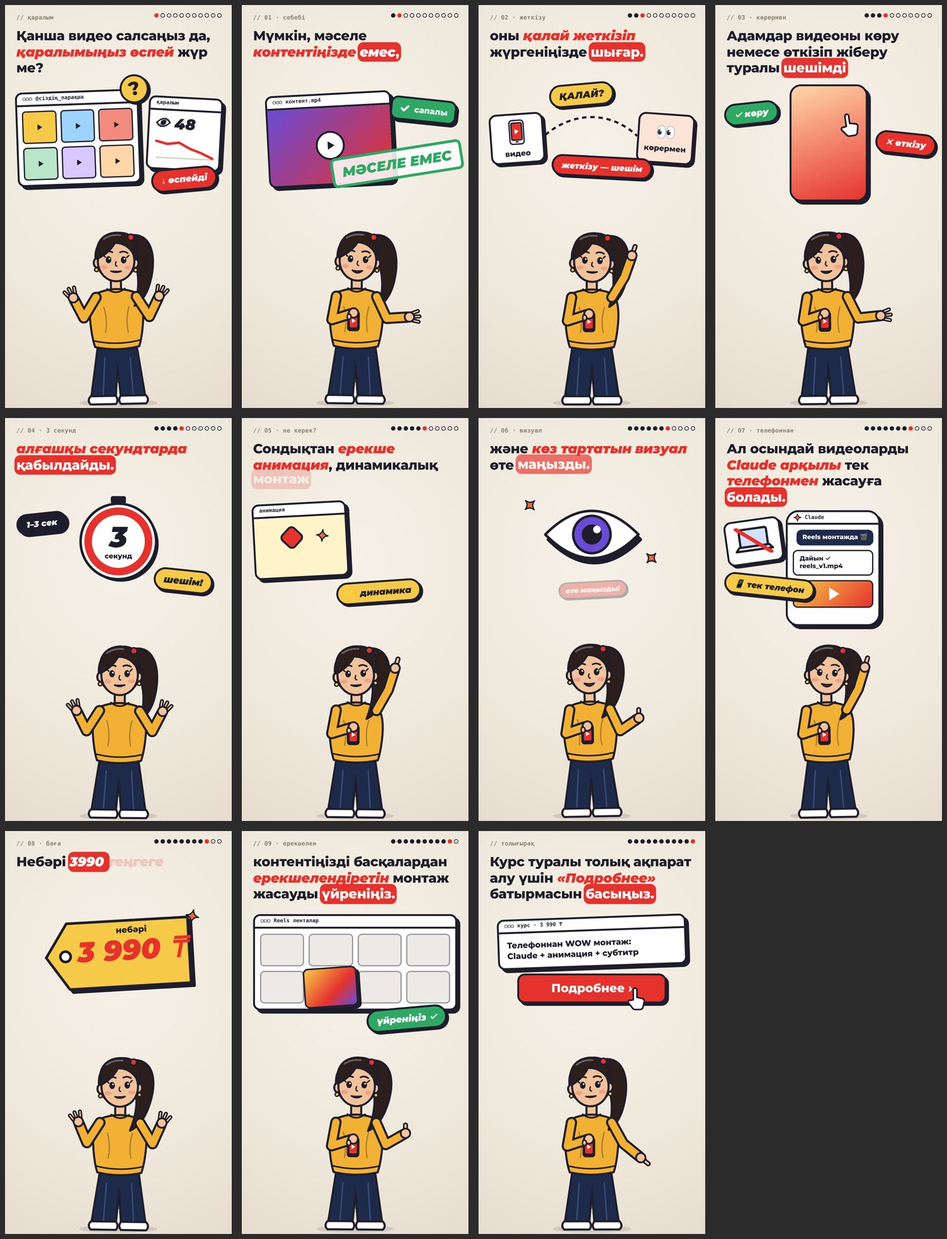
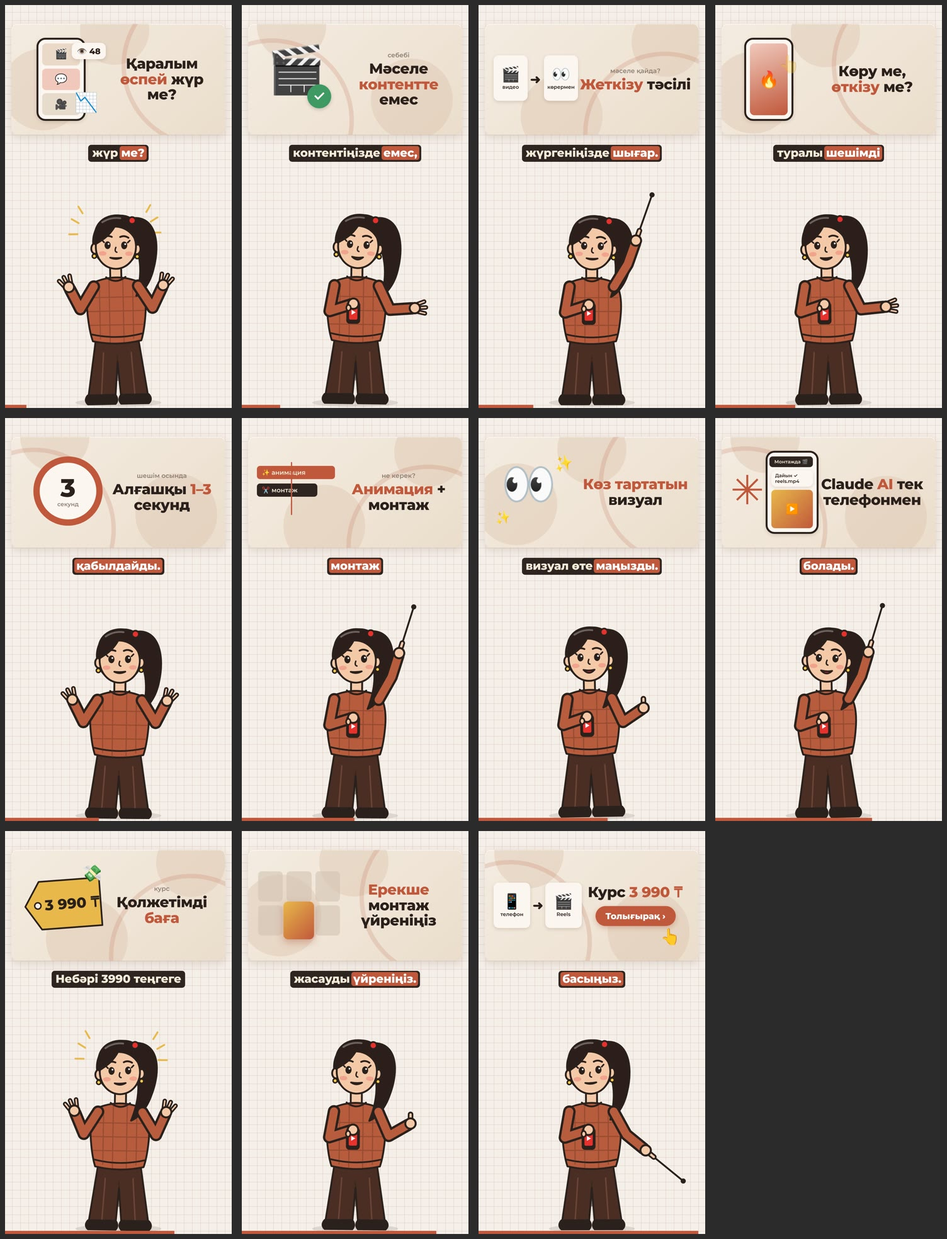
Қаралым: референс дизайны (панель, қара плашкалы субтитр, прогресс сызығы)
Claude-Session: https://claude.ai/code/session_017A9pfuai7idtZ89oicBLPH

Changed region(s): [[0.0, 0.0, 1.0, 1.0], [0.9375, 0.6199, 1.0, 0.6819]]

diff --git a/.claude/skills/matin-video/mult/ref.html b/.claude/skills/matin-video/mult/ref.html
@@ -1,0 +1,261 @@
+<!doctype html><html><head><meta charset="utf-8">
+<style>
+@font-face{font-family:MS;font-weight:800;font-style:normal;unicode-range:U+0000-024F,U+2000-206F,U+203A;src:url(fonts/montserrat-latin-800-normal.woff2)}
+@font-face{font-family:MS;font-weight:800;font-style:normal;unicode-range:U+0400-045F,U+0490-0491,U+04B0-04B1,U+2116;src:url(fonts/montserrat-cyrillic-800-normal.woff2)}
+@font-face{font-family:MS;font-weight:800;font-style:normal;unicode-range:U+0460-052F,U+1C80-1C88,U+20B4,U+2DE0-2DFF,U+A640-A69F,U+FE2E-FE2F;src:url(fonts/montserrat-cyrillic-ext-800-normal.woff2)}
+@font-face{font-family:MS;font-weight:900;font-style:italic;unicode-range:U+0000-024F,U+2000-206F;src:url(fonts/montserrat-latin-900-italic.woff2)}
+@font-face{font-family:MS;font-weight:900;font-style:italic;unicode-range:U+0400-045F,U+0490-0491,U+04B0-04B1;src:url(fonts/montserrat-cyrillic-900-italic.woff2)}
+@font-face{font-family:MS;font-weight:900;font-style:italic;unicode-range:U+0460-052F;src:url(fonts/montserrat-cyrillic-ext-900-italic.woff2)}
+@font-face{font-family:MS;font-weight:600;font-style:normal;unicode-range:U+0000-024F,U+2000-206F;src:url(fonts/montserrat-latin-600-normal.woff2)}
+@font-face{font-family:MS;font-weight:600;font-style:normal;unicode-range:U+0400-045F,U+0490-0491,U+04B0-04B1;src:url(fonts/montserrat-cyrillic-600-normal.woff2)}
+@font-face{font-family:MS;font-weight:600;font-style:normal;unicode-range:U+0460-052F;src:url(fonts/montserrat-cyrillic-ext-600-normal.woff2)}
+
+:root{--ink:#2B211C;--acc:#C0583B;--bg:#F5EFE9;--chip:#2E2420;--cream:#F6EBDD}
+*{box-sizing:border-box}
+html,body{margin:0;width:360px;height:640px;overflow:hidden;background:var(--bg)}
+#stage{position:absolute;inset:0;overflow:hidden;font-family:MS,'Noto Color Emoji',sans-serif;color:var(--ink);background:var(--bg)}
+#grid{position:absolute;inset:0;background-image:linear-gradient(rgba(190,150,128,.22) 1px,transparent 1px),linear-gradient(90deg,rgba(190,150,128,.22) 1px,transparent 1px);background-size:13px 13px;background-position:-2px -2px}
+#panel{position:absolute;left:10px;top:30px;width:340px;height:176px;border-radius:10px;overflow:hidden;
+ background:linear-gradient(140deg,#F4ECE1 0%,#EFE4D5 60%,#EADDCB 100%);box-shadow:0 4px 14px rgba(90,60,40,.16),0 1px 0 rgba(255,255,255,.7) inset}
+.blob{position:absolute;border-radius:50%;background:rgba(222,198,176,.45)}
+.arc{position:absolute;border-radius:50%;border:7px solid rgba(196,120,90,.22)}
+.scene{position:absolute;inset:0}
+.el{position:absolute;transform-origin:50% 50%}
+.ttl{position:absolute;left:150px;right:12px;top:0;bottom:0;display:flex;flex-direction:column;justify-content:center;align-items:center;text-align:center}
+.step{font:600 10px MS;color:#8b7d72;margin-bottom:3px}
+.tt{max-width:100%;font:800 23px/1.08 MS;letter-spacing:-.4px;color:var(--ink)}
+.tt b{color:var(--acc);font-weight:800}
+.tt span{display:inline-block}
+.card{background:#FBF6EF;border-radius:8px;box-shadow:0 2px 6px rgba(90,60,40,.18)}
+.chip{background:var(--chip);color:#F4EAD8;border-radius:5px;font:600 10px MS;padding:4px 8px;white-space:nowrap}
+.pill{border-radius:999px;font:800 14px MS;padding:7px 16px;white-space:nowrap;background:var(--acc);color:#fff;box-shadow:0 3px 8px rgba(160,70,40,.3)}
+.emo{font-family:'Noto Color Emoji';line-height:1}
+#sub{position:absolute;left:12px;right:12px;top:222px;display:flex;flex-direction:column;align-items:center;gap:4px}
+.ln{background:var(--chip);border-radius:5px;padding:2px 6px;font:800 18px/1.25 MS;color:#F4EAD8;white-space:nowrap;letter-spacing:-.1px}
+.ln span{border-radius:4px;padding:0 3px;margin:0 -3px}
+.ln span.act{background:var(--acc);color:#fff}
+#prog{position:absolute;left:0;bottom:0;height:5px;background:var(--acc)}
+#cw{position:absolute;inset:0;transform-origin:180px 636px;transform:scale(1.1)}
+</style></head><body><div id="stage"><div id="grid"></div>
+<div id="panel"><div class="blob" id="b1" style="width:130px;height:130px;left:-20px;top:40px"></div><div class="blob" id="b2" style="width:110px;height:110px;left:110px;top:-40px"></div><div class="arc" id="a1" style="width:260px;height:260px;left:180px;top:-60px"></div><div id="scenes"></div></div>
+<div id="sub"></div>
+<div id="cw"><svg id="person" viewBox="0 0 360 640" width="360" height="640" stroke="#2B211C" stroke-width="2.6" stroke-linejoin="round" stroke-linecap="round" style="position:absolute;left:0;top:0">
+ <ellipse cx="180" cy="632" rx="62" ry="6" fill="#2B211C" opacity=".12" stroke="none"/>
+ <g id="pall">
+ <g id="pfx" style="display:none" fill="none" stroke="#E8B84A" stroke-width="2.6"><path d="M128 372 L118 366 M126 388 L114 388 M134 358 L128 348"/><path d="M232 372 L242 366 M234 388 L246 388 M226 358 L232 348"/></g>
+ <path d="M150 536 L210 536 L223 623 L184 623 L180 574 L176 623 L137 623Z" fill="#4A2E24"/><path d="M160 560 L156 620 M200 560 L204 620" fill="none" stroke="#6b4536" stroke-width="2"/>
+ <path d="M180 566 L180 600" fill="none" stroke-width="2" opacity=".5"/>
+ <path d="M136 621 H176 Q181 628 176 634 H136 Q130 628 136 621Z" fill="#2B211C"/>
+ <path d="M184 621 H224 Q230 628 224 634 H184 Q179 628 184 621Z" fill="#2B211C"/>
+ <path d="M172 432 V452 Q180 458 188 452 V432Z" fill="#F3C9A8"/>
+ <path d="M146 459 Q180 444 214 459 Q224 472 222 502 Q220 528 215 543 Q180 551 145 543 Q140 528 138 502 Q136 472 146 459Z" fill="#B85C3E"/>
+ <path d="M143 533 Q180 542 217 533" fill="none" stroke-width="2.4"/>
+ <path d="M166 451 Q180 462 194 451" fill="none" stroke-width="2.6"/>
+ <g opacity=".35" stroke="#5a2a1a" stroke-width="1.6" fill="none"><path d="M156 462 V540 M170 452 V546 M190 452 V546 M204 462 V540 M142 480 H218 M140 500 H220 M141 520 H219"/></g>
+ <g id="phead">
+  <g id="ptail"><path d="M200 366 C236 360 244 400 232 440 C226 462 214 474 206 478 C216 446 216 414 198 390Z" fill="#2B1E1B"/></g>
+  <ellipse cx="180" cy="400" rx="33" ry="37" fill="#2B1E1B"/>
+  <ellipse cx="150" cy="410" rx="5.5" ry="7.5" fill="#F3C9A8"/><ellipse cx="210" cy="410" rx="5.5" ry="7.5" fill="#F3C9A8"/>
+  <circle cx="149" cy="421" r="3" fill="#F7C948" stroke-width="2"/><circle cx="211" cy="421" r="3" fill="#F7C948" stroke-width="2"/>
+  <ellipse cx="180" cy="407" rx="29" ry="32" fill="#F3C9A8"/>
+  <path d="M150 404 C144 370 168 360 186 362 C206 362 218 378 211 404 C206 388 194 378 178 378 C170 392 160 398 150 404Z" fill="#2B1E1B"/>
+  <path d="M160 372 Q172 364 186 366" fill="none" stroke="#fff" stroke-width="2.6" opacity=".3"/>
+  <circle cx="203" cy="369" r="5" fill="#E5322D" stroke-width="2.4"/>
+  <path d="M162 394 Q168 390 174 393 M186 393 Q192 390 198 394" fill="none" stroke-width="2.6"/>
+  <g id="peyes"><g class="ppup"><ellipse cx="168" cy="405" rx="4.4" ry="5.6" fill="#2B211C" stroke="none"/><circle cx="169.4" cy="403.2" r="1.3" fill="#fff" stroke="none"/>
+   <ellipse cx="192" cy="405" rx="4.4" ry="5.6" fill="#2B211C" stroke="none"/><circle cx="193.4" cy="403.2" r="1.3" fill="#fff" stroke="none"/></g></g>
+  <path d="M163 401 L160 398 M197 401 L200 398" fill="none" stroke-width="2.2"/>
+  <path id="plids" d="M164 406 Q168 409 172 406 M188 406 Q192 409 196 406" fill="none" stroke-width="2.4" style="display:none"/>
+  <ellipse cx="161" cy="417" rx="5.5" ry="3.2" fill="#F28B7D" stroke="none" opacity=".6"/><ellipse cx="199" cy="417" rx="5.5" ry="3.2" fill="#F28B7D" stroke="none" opacity=".6"/>
+  <path d="M180 408 Q177.5 414 181.5 415" fill="none" stroke-width="2"/>
+  <path id="pmouth" d="M172 423 Q180 428 188 423Z" fill="#C42A3B" stroke-width="2.4"/>
+ </g>
+ <g id="pL"><path class="aO" d="" fill="none" stroke-width="18"/><path class="aF" d="" fill="none" stroke="#B85C3E" stroke-width="11.5"/>
+  <g class="hand">
+   <g class="hPhone"><rect x="-9" y="-2" width="18" height="30" rx="4" fill="#2B211C" stroke-width="2"/><rect x="-6" y="2" width="12" height="21" rx="2" fill="#E5322D" stroke="none"/><path d="M-2.5 9 L3.5 12.5 L-2.5 16Z" fill="#fff" stroke="none"/></g>
+   <g class="hOpen"><path d="M-5.5 4 L-8.5 14 M0 5 L0 16 M5.5 4 L8.5 14" fill="none" stroke-width="6.5"/><path d="M-5.5 4 L-8.5 14 M0 5 L0 16 M5.5 4 L8.5 14" fill="none" stroke-width="2" stroke="#F3C9A8"/></g>
+   <g class="hPoint"><path class="stick" d="M0 2 L0 70" stroke="#2B211C" stroke-width="2.6"/><circle cx="0" cy="70" r="2.4" fill="#2B211C"/><rect x="-2.8" y="2" width="5.6" height="16" rx="2.8" fill="#F3C9A8" stroke-width="2.4"/></g>
+   <g class="hThumb"><rect x="-2.8" y="-16" width="5.6" height="14" rx="2.8" fill="#F3C9A8" stroke-width="2.4"/></g>
+   <circle class="palm" cx="0" cy="0" r="7.5" fill="#F3C9A8" stroke-width="2.8"/>
+   <g class="hPhoneF"><ellipse cx="-7" cy="6" rx="3.2" ry="4.2" fill="#F3C9A8" stroke-width="2.2"/></g>
+  </g></g>
+ <g id="pR"><path class="aO" d="" fill="none" stroke-width="18"/><path class="aF" d="" fill="none" stroke="#B85C3E" stroke-width="11.5"/>
+  <g class="hand">
+   <g class="hPhone"><rect x="-9" y="-2" width="18" height="30" rx="4" fill="#2B211C" stroke-width="2"/><rect x="-6" y="2" width="12" height="21" rx="2" fill="#E5322D" stroke="none"/><path d="M-2.5 9 L3.5 12.5 L-2.5 16Z" fill="#fff" stroke="none"/></g>
+   <g class="hOpen"><path d="M-5.5 4 L-8.5 14 M0 5 L0 16 M5.5 4 L8.5 14" fill="none" stroke-width="6.5"/><path d="M-5.5 4 L-8.5 14 M0 5 L0 16 M5.5 4 L8.5 14" fill="none" stroke-width="2" stroke="#F3C9A8"/></g>
+   <g class="hPoint"><path class="stick" d="M0 2 L0 70" stroke="#2B211C" stroke-width="2.6"/><circle cx="0" cy="70" r="2.4" fill="#2B211C"/><rect x="-2.8" y="2" width="5.6" height="16" rx="2.8" fill="#F3C9A8" stroke-width="2.4"/></g>
+   <g class="hThumb"><rect x="-2.8" y="-16" width="5.6" height="14" rx="2.8" fill="#F3C9A8" stroke-width="2.4"/></g>
+   <circle class="palm" cx="0" cy="0" r="7.5" fill="#F3C9A8" stroke-width="2.8"/>
+   <g class="hPhoneF"><ellipse cx="-7" cy="6" rx="3.2" ry="4.2" fill="#F3C9A8" stroke-width="2.2"/></g>
+  </g></g>
+ </g>
+</svg></div>
+<div id="prog"></div>
+</div>
+<script>
+const $=(s,r=document)=>r.querySelector(s);
+const clamp=(x,a=0,b=1)=>Math.max(a,Math.min(b,x));
+const eob=x=>{const c1=1.7,c3=c1+1;return 1+c3*Math.pow(x-1,3)+c1*Math.pow(x-1,2)};
+const eo=x=>1-Math.pow(1-x,3);
+let D=null;
+const T=(h)=>`<div class="ttl">${h}</div>`;
+const tt=(s,step)=>{let em=false;const ws=s.split(' ').map(w=>{let st=w.startsWith('*');if(st){em=true;w=w.slice(1)}let en=w.includes('*');w=w.replace('*','');const r=`<span class="tw">${em?`<b>${w}</b>`:w}</span>`;if(en)em=false;return r});
+ return (step?`<div class="step">${step}</div>`:'')+`<div class="tt">${ws.join(' ')}</div>`;};
+const PH=(inner,w=78,h=132,x=40,y=22)=>`<div class="el card" id="ph" style="left:${x}px;top:${y}px;width:${w}px;height:${h}px;border-radius:14px;border:3px solid #2B211C;padding:6px;display:flex;flex-direction:column;gap:5px;overflow:hidden">${inner}</div>`;
+function card(kind){
+ switch(kind){
+ case 'views': return [PH(`<div class="el" id="v1" style="position:relative;flex:1;border-radius:6px;background:#EBD9C8;display:flex;align-items:center;justify-content:center"><span class="emo" style="font-size:16px">🎬</span></div>
+   <div class="el" id="v2" style="position:relative;flex:1;border-radius:6px;background:#F0C9BC;display:flex;align-items:center;justify-content:center"><span class="emo" style="font-size:16px">💬</span></div>
+   <div class="el" id="v3" style="position:relative;flex:1;border-radius:6px;background:#E7DCCB;display:flex;align-items:center;justify-content:center"><span class="emo" style="font-size:16px">🎥</span></div>`)+
+  `<div class="el card" id="vc" style="left:96px;top:30px;padding:5px 8px;font:800 13px MS;white-space:nowrap"><span class="emo">👁</span> <span id="vn">312</span></div>
+   <div class="el emo" id="vd" style="left:100px;top:110px;font-size:30px">📉</div>`+T(tt('Қаралым *өспей* жүр ме?')),
+  [['#ph',0.0],['#v1',0.35],['#v2',0.6],['#v3',0.85],['#vc','қаралым'],['#vd','өспей']]];
+ case 'content': return [`<div class="el emo" id="c1" style="left:30px;top:36px;font-size:74px">🎬</div>
+   <div class="el" id="c2" style="left:94px;top:96px;width:38px;height:38px;border-radius:50%;background:#3E9A62;color:#fff;font:900 22px/38px MS;text-align:center;box-shadow:0 2px 6px rgba(0,0,0,.2)">✓</div>`+T(tt('Мәселе *контентте* емес','себебі')),
+  [['#c1',0.0],['#c2','контент']]];
+ case 'deliver': return [`<div class="el card" id="d1" style="left:14px;top:50px;width:54px;height:72px;display:flex;flex-direction:column;align-items:center;justify-content:center;gap:3px;font:600 8px MS"><span class="emo" style="font-size:24px">🎬</span>видео</div>
+   <div class="el" id="d2" style="left:72px;top:76px;font:800 20px MS">➜</div>
+   <div class="el card" id="d3" style="left:94px;top:50px;width:54px;height:72px;display:flex;flex-direction:column;align-items:center;justify-content:center;gap:3px;font:600 8px MS"><span class="emo" style="font-size:24px">👀</span>көрермен</div>`+T(tt('*Жеткізу* тәсілі','мәселе қайда?')),
+  [['#d1',0.0],['#d2','қалай'],['#d3','жеткізіп']]];
+ case 'swipe': return [PH(`<div id="feed" style="position:absolute;left:6px;right:6px;top:6px">
+    <div style="height:114px;border-radius:7px;background:linear-gradient(160deg,#EBD9C8,#C98E74);display:flex;align-items:center;justify-content:center"><span class="emo" style="font-size:26px">😴</span></div>
+    <div style="height:6px"></div>
+    <div style="height:114px;border-radius:7px;background:linear-gradient(160deg,#F0C9BC,#C0583B);display:flex;align-items:center;justify-content:center"><span class="emo" style="font-size:26px">🔥</span></div></div>`,78,132,36,22)+
+   `<div class="el emo" id="sw" style="left:90px;top:110px;font-size:28px">👆</div>`+T(tt('Көру ме, *өткізу* ме?')),
+  [['#ph',0.0],['#sw','өткізіп','swipe']]];
+ case 'timer': return [`<div class="el" id="tm" style="left:30px;top:26px;width:120px;height:120px">
+   <svg width="120" height="120" viewBox="0 0 120 120" style="position:absolute;inset:0"><circle cx="60" cy="60" r="50" fill="#FBF6EF" stroke="#E5D6C5" stroke-width="10"/>
+   <circle id="tr" cx="60" cy="60" r="50" fill="none" stroke="#C0583B" stroke-width="10" stroke-linecap="round" stroke-dasharray="314" stroke-dashoffset="314" transform="rotate(-90 60 60)"/></svg>
+   <div style="position:absolute;inset:0;display:flex;flex-direction:column;align-items:center;justify-content:center"><div id="tn" style="font:800 40px/1 MS">0</div><div style="font:600 9px MS;color:#8b7d72">секунд</div></div></div>`+T(tt('Алғашқы *1–3* секунд','шешім осында')),
+  [['#tm',0.0]]];
+ case 'anim': return [`<div class="el" id="tl" style="left:14px;top:46px;width:140px;height:90px">
+   <div class="chip" id="r1" style="position:absolute;left:0;top:0;width:124px;background:#C0583B">✨ анимация</div>
+   <div class="chip" id="r2" style="position:absolute;left:0;top:28px;width:96px">✂ монтаж</div>
+   <div class="chip" id="r3" style="position:absolute;left:0;top:56px;width:104px;background:#7A5A48">⚡ динамика</div>
+   <div id="ph2" style="position:absolute;top:-6px;height:84px;width:2px;background:#C0583B;left:20px"></div></div>`+T(tt('*Анимация* + монтаж','не керек?')),
+  [['#tl',0.0],['#r1','анимация','row'],['#r2','динамикалық','row'],['#r3','монтаж','row']]];
+ case 'visual': return [`<div class="el emo" id="e1" style="left:26px;top:40px;font-size:70px">👀</div>
+   <div class="el emo" id="e2" style="left:110px;top:30px;font-size:24px">✨</div><div class="el emo" id="e3" style="left:16px;top:118px;font-size:20px">✨</div>`+T(tt('*Көз тартатын* визуал')),
+  [['#e1','көз'],['#e2','тартатын'],['#e3','визуал']]];
+ case 'claude': return [`<div class="el" id="ast" style="left:14px;top:52px;font:300 64px/1 MS;color:#C0583B">✳</div>`+
+   PH(`<div class="el chip" id="m1" style="position:relative;align-self:flex-end;font-size:7.5px">Монтажда 🎬</div>
+   <div class="el card" id="m2" style="position:relative;padding:4px 6px;font:600 7.5px MS">Дайын ✓<br>reels.mp4</div>
+   <div class="el" id="m3" style="position:relative;flex:1;border-radius:6px;background:linear-gradient(135deg,#E8B84A,#C0583B);display:flex;align-items:center;justify-content:center;color:#fff;font-size:16px">▶</div>`,84,132,70,22)+T(tt('Claude *AI* тек телефонмен')),
+  [['#ast',0.0],['#ph',0.15],['#m1','claude'],['#m2','телефонмен'],['#m3','жасауға']]];
+ case 'price': return [`<div class="el" id="pt" style="left:18px;top:44px;width:128px;height:84px">
+   <svg width="128" height="84" viewBox="0 0 128 84" style="position:absolute;inset:0;overflow:visible"><path d="M28 4 H124 V80 H28 L4 42Z" fill="#E8B84A" stroke="#2B211C" stroke-width="2.6" stroke-linejoin="round"/><circle cx="24" cy="42" r="5" fill="#F5EFE9" stroke="#2B211C" stroke-width="2.2"/></svg>
+   <div style="position:absolute;left:34px;right:4px;top:0;bottom:0;display:flex;align-items:center;justify-content:center;font:800 23px MS;color:#2B211C">3 990 ₸</div></div>
+   <div class="el emo" id="p2" style="left:112px;top:24px;font-size:26px">💸</div>`+T(tt('Қолжетімді *баға*','курс')),
+  [['#pt','небәрі','price'],['#p2','3990']]];
+ case 'standout': return [`<div class="el" id="gr" style="left:16px;top:34px;width:130px;display:grid;grid-template-columns:repeat(3,1fr);gap:6px">
+   ${[0,1,2,3,4,5].map(i=>`<div id="g${i}" style="height:48px;border-radius:6px;background:#D2C3B3"></div>`).join('')}</div>`+T(tt('*Ерекше* монтаж үйреніңіз')),
+  [['#gr',0.0]]];
+ case 'kurs': return [`<div class="el card" id="k1" style="left:14px;top:52px;width:58px;height:72px;display:flex;flex-direction:column;align-items:center;justify-content:center;gap:3px;font:600 8px MS"><span class="emo" style="font-size:24px">📱</span>телефон</div>
+   <div class="el" id="k2" style="left:76px;top:76px;font:800 20px MS">➜</div>
+   <div class="el card" id="k3" style="left:96px;top:52px;width:58px;height:72px;display:flex;flex-direction:column;align-items:center;justify-content:center;gap:3px;font:600 8px MS"><span class="emo" style="font-size:24px">🎬</span>Reels</div>`+
+   T(`<div class="tt"><span class="tw">Курс</span> <span class="tw"><b>3 990 ₸</b></span></div><div class="el pill" id="btn" style="position:relative;margin-top:10px">${D.button||'Толығырақ'} ›</div>`)+
+   `<div class="el emo" id="hand" style="left:280px;top:128px;font-size:26px">👆</div>`,
+  [['#k1',0.0],['#k2',0.15],['#k3',0.3],['#btn',(D.button_key||'толығырақ'),'btn'],['#hand','батырмасын','tap']]];
+ }
+}
+function wtime(s,key){ if(typeof key==='number') return s.t0+key; for(const w of s.words){ if(w.w.toLowerCase().includes(key)) return w.t; } return s.t0+0.2; }
+function chunks(ws){const out=[];let cur=[],len=0;ws.forEach((w,j)=>{const L=(w.w+(w.p||'')).length;if(cur.length&&len+L+1>24){out.push(cur);cur=[];len=0}cur.push(j);len+=L+1;
+ if(/[.,?!]$/.test(w.w+(w.p||''))&&len>12){out.push(cur);cur=[];len=0}});if(cur.length)out.push(cur);return out;}
+const BL=[[[-20,40],[110,-40],[180,-60]],[[200,60],[20,-50],[-90,20]],[[60,80],[230,-30],[150,40]]];
+function setup(data){
+ D=data; const root=$('#scenes');
+ D.scenes.forEach((s,i)=>{
+  const div=document.createElement('div'); div.className='scene'; div.style.display='none';
+  const [html,els]=card(s.card); div.innerHTML=html; root.appendChild(div);
+  s.div=div; s.tws=[...div.querySelectorAll('.tw')];
+  s.els=els.map(([sel,key,kind])=>({el:div.querySelector(sel),t:wtime(s,key),kind:kind||'pop'}));
+  div.querySelectorAll('.step').forEach(e=>s.els.push({el:e,t:s.t0+0.05,kind:'fade'}));
+  s.ch=chunks(s.words);
+ });
+ window.READY=true;
+}
+function env(t){const i=Math.floor(t*D.fps);return D.env[Math.max(0,Math.min(D.env.length-1,i))]||0}
+const POSE={ // [upperR, foreR, upperL, foreL, handR, handL]
+ talk:[-22,-72,10,-118,'open','phone'], point:[-150,-12,10,-118,'point','phone'], wave:[-128,-30,10,-118,'open','phone'],
+ thumb:[-24,-100,10,-118,'thumb','phone'], wow:[-32,-128,32,128,'open','open'], down:[-28,-22,10,-118,'point','phone']};
+function hands(g,k){['Open','Point','Thumb','Phone'].forEach(n=>g.querySelectorAll('.h'+n).forEach(e=>e.style.display=(k===n.toLowerCase())?'':'none'));}
+function drawArm(id,sx,sy,u,f,hk){const g=$(id),r=Math.PI/180;
+ const ex=sx-38*Math.sin(u*r), ey=sy+38*Math.cos(u*r), a2=u+f, hx=ex-32*Math.sin(a2*r), hy=ey+32*Math.cos(a2*r);
+ const d=`M${sx} ${sy} L${ex} ${ey} L${hx} ${hy}`; g.querySelector('.aO').setAttribute('d',d); g.querySelector('.aF').setAttribute('d',d);
+ const h=g.querySelector('.hand'); h.setAttribute('transform',`translate(${hx-4*Math.sin(a2*r)} ${hy+4*Math.cos(a2*r)}) rotate(${hk==='thumb'||hk==='phone'?0:a2})`);
+ ['Open','Point','Thumb','Phone','PhoneF'].forEach(n=>h.querySelectorAll('.h'+n).forEach(e=>e.style.display=(hk===n.toLowerCase()||(n==='PhoneF'&&hk==='phone'))?'':'none'));}
+function drawPerson(t,si,sceneT){
+ const a=env(t), a2=env(t-0.05), m=Math.max(a,a2*0.8), open=0.5+9*m;
+ $('#pmouth').setAttribute('d',`M172 423 Q180 ${426+open} 188 423 Q180 ${424+open*0.15} 172 423Z`);
+ const blink=((t+0.7)%3.3)<0.12; $('#peyes').style.display=blink?'none':''; $('#plids').style.display=blink?'':'none';
+ const pose=D.scenes[si].pose||'talk', prev=si?(D.scenes[si-1].pose||'talk'):pose;
+ const P1=POSE[pose]||POSE.talk, P0=POSE[prev]||POSE.talk, k=si?eob(clamp(sceneT/0.45)):1;
+ const L=(i)=>P0[i]+(P1[i]-P0[i])*k;
+ let uR=L(0),fR=L(1),uL=L(2),fL=L(3);
+ if(pose==='wave'){fR+=Math.sin(t*9)*22;}
+ if(pose==='talk'){fR+=Math.sin(t*3.2)*10-a*12; uR+=Math.sin(t*1.7)*4;}
+ if(pose==='point'||pose==='down'){uR+=Math.sin(t*4)*2;}
+ if(pose==='thumb'){fR+=Math.sin(t*5)*4;}
+ if(pose==='wow'){fR+=Math.sin(t*7)*8; fL-=Math.sin(t*7)*8;}
+ drawArm('#pR',212,464,uR,fR,k<0.5?P0[4]:P1[4]); drawArm('#pL',148,464,uL,fL,k<0.5?P0[5]:P1[5]);
+ const hr=Math.sin(t*2.1)*3+(a-0.3)*4, hy=Math.sin(t*4.2)*0.8-a*2;
+ $('#phead').setAttribute('transform',`translate(0 ${hy}) rotate(${hr} 180 440)`);
+ $('#ptail').setAttribute('transform',`rotate(${Math.sin(t*2.6)*5-hr*0.6} 204 372)`);
+ const jump=si&&sceneT<0.35?Math.sin(sceneT/0.35*Math.PI)*5:0;
+ $('#pall').setAttribute('transform',`translate(0 ${Math.sin(t*1.6)*1.2-jump}) rotate(${Math.sin(t*1.3)*1.2} 180 630)`);
+}
+
+function draw(t){
+ let cur=0; D.scenes.forEach((s,i)=>{ if(t>=s.t0) cur=i; });
+ $('#prog').style.width=(clamp(t/D.dur)*360)+'px';
+ const S=D.scenes[cur];
+ // blobs drift
+ const bl=BL[cur%3], bp=eo(clamp((t-S.t0)/0.6)), pb=BL[(cur+2)%3];
+ ['#b1','#b2','#a1'].forEach((id,k)=>{const x=pb[k][0]+(bl[k][0]-pb[k][0])*(cur?bp:1)+Math.sin(t*0.6+k)*6, y=pb[k][1]+(bl[k][1]-pb[k][1])*(cur?bp:1)+Math.cos(t*0.5+k)*5;$(id).style.left=x+'px';$(id).style.top=y+'px';});
+ const pin=eob(clamp(t/0.5)); $('#panel').style.transform=`translateY(${(1-pin)*-30}px) scale(${0.9+0.1*pin})`; $('#panel').style.opacity=clamp(t/0.2);
+ D.scenes.forEach((s,i)=>{
+  if(i!==cur){s.div.style.display='none';return}
+  s.div.style.display='';
+  const xo=clamp((t-(s.t1-0.18))/0.18), xi=clamp((t-s.t0)/0.25);
+  s.div.style.opacity=(1-xo)*(i?eo(xi):1); s.div.style.transform=`translateX(${(1-eo(xi))*(i?18:0)-xo*18}px)`;
+  // title words pop sequentially
+  s.tws.forEach((w,j)=>{const p=clamp((t-s.t0-0.08-j*0.07)/0.3);w.style.opacity=clamp(p*2.5);w.style.transform=`translateY(${(1-eob(p))*12}px) scale(${0.85+0.15*eob(p)})`;});
+  s.els.forEach(o=>{
+   const p=clamp((t-o.t)/0.4);
+   if(t<o.t){o.el.style.opacity=0;return}
+   if(o.kind==='fade'){o.el.style.opacity=eo(p);return}
+   if(o.kind==='row'){o.el.style.opacity=eo(p);o.el.style.transform=`translateX(${(1-eo(p))*-30}px)`;return}
+   if(o.kind==='swipe'){const c=((t-o.t)%1.4)/1.4,up=c<0.45?eo(c/0.45):1;o.el.style.opacity=c<0.85?1:1-(c-0.85)/0.15;o.el.style.transform=`translateY(${-up*60}px)`;
+     s.div.querySelector('#feed').style.transform=`translateY(${-up*120}px)`;return}
+   if(o.kind==='btn'){o.el.style.opacity=clamp(p*3);o.el.style.transform=`scale(${(0.6+0.4*eob(p))*(1+0.05*Math.sin(t*7))})`;return}
+   if(o.kind==='tap'){const c=((t-o.t)%1.0),pr=c<0.15?c/0.15:c<0.3?1-(c-0.15)/0.15:0;o.el.style.opacity=eo(p);o.el.style.transform=`translate(${-pr*4}px,${-pr*8+(1-eo(p))*30}px) scale(${1-pr*0.1})`;return}
+   if(o.kind==='price'){o.el.style.opacity=clamp(p*3);o.el.style.transform=`scale(${0.5+0.5*eob(p)}) rotate(${-6+Math.sin((t-o.t)*5)*2}deg)`;return}
+   o.el.style.opacity=clamp(p*3); o.el.style.transform=`scale(${0.5+0.5*eob(p)})`;
+  });
+  if(s.card==='views'){const tc=wtime(s,'өспей');s.div.querySelector('#vn').textContent=Math.round(312-(312-48)*eo(clamp((t-tc)/0.8)));}
+  if(s.card==='timer'){const q=clamp((t-s.t0-0.1)/1.5);s.div.querySelector('#tr').style.strokeDashoffset=314*(1-q);s.div.querySelector('#tn').textContent=Math.min(3,Math.floor(q*3.02));}
+  if(s.card==='anim'){s.div.querySelector('#ph2').style.left=(10+((t-s.t0)*50)%110)+'px';}
+  if(s.card==='visual'){const u=t-s.t0;['#e2','#e3'].forEach((q,k)=>{const e=s.div.querySelector(q);if(e.style.opacity>0)e.style.transform+=` rotate(${Math.sin(u*4+k)*15}deg)`;});}
+  if(s.card==='standout'){const te=wtime(s,'ерекшелендіретін'),q=eob(clamp((t-te)/0.4));
+   for(let k=0;k<6;k++){const e=s.div.querySelector('#g'+k),ap=clamp((t-s.t0-0.06*k)/0.3);
+    if(k===4&&t>=te){e.style.background='linear-gradient(135deg,#E8B84A,#C0583B)';e.style.transform=`scale(${1+0.25*q})`;e.style.boxShadow='0 4px 10px rgba(160,70,40,.35)';e.style.opacity=1;e.style.position='relative';e.style.zIndex=2;}
+    else{e.style.background='#D2C3B3';e.style.boxShadow='none';e.style.transform=`scale(${0.6+0.4*eob(ap)})`;e.style.opacity=(t>=te?0.6:1)*ap;}}}
+ });
+ // subtitles
+ const sub=$('#sub'); let html='';
+ const ws=S.words; let ci=0; S.ch.forEach((c,k)=>{if(t>=ws[c[0]].t-0.05) ci=k;});
+ const c=S.ch[ci];
+ if(t>=ws[c[0]].t-0.12 && t<S.t1-0.05){
+  html='<div class="ln">'+c.map(j=>{const w=ws[j],nx=ws[j+1];const act=t>=w.t&&(!nx||t<nx.t)&&t<w.t+1.0;return `<span class="${act?'act':''}">${w.w}${w.p||''}</span>`;}).join(' ')+'</div>';
+ }
+ if(sub.innerHTML!==html) sub.innerHTML=html;
+ const lp=clamp((t-ws[c[0]].t+0.12)/0.2); sub.style.transform=`scale(${0.9+0.1*eob(lp)})`;
+ drawPerson(t,cur,t-S.t0);
+ $('#pfx').style.display=(S.pose==='wow'&&Math.floor(t*4)%2===0)?'':'none';
+}
+function events(){const ev=[];D.scenes.forEach((s,i)=>{if(i)ev.push([s.t0,'whoosh']);
+ s.els.forEach(o=>{if(o.t>=s.t1-0.05)return;const k=o.kind==='row'?'tick':o.kind==='price'?'cash':o.kind==='tap'?'click':o.kind==='swipe'?'swish':o.kind==='fade'?null:'pop';if(k)ev.push([o.t,k]);});
+ if(s.card==='timer'){for(let k=1;k<=3;k++)ev.push([s.t0+0.1+1.5*k/3,'tick']);}
+ if(s.card==='standout')ev.push([wtime(s,'ерекшелендіретін'),'sparkle']);});return ev.sort((a,b)=>a[0]-b[0]);}
+window.events=events;window.setup=setup;window.draw=draw;
+</script></body></html>

diff --git a/.claude/skills/matin-video/mult/render.js b/.claude/skills/matin-video/mult/render.js
@@ -3,7 +3,7 @@ const {chromium}=require('playwright');const fs=require('fs');const path=require
 (async()=>{
  const [,,dataF,mode,arg,out]=process.argv; const data=JSON.parse(fs.readFileSync(dataF,'utf8'));
  const b=await chromium.launch(); const p=await b.newPage({viewport:{width:360,height:640},deviceScaleFactor:3});
- await p.goto('file://'+path.join(__dirname,'page.html')); await p.evaluate(async()=>{for(const f of ['800 21px MS','italic 900 21px MS','600 12px MS']) await document.fonts.load(f,'Aaәғқңөұүһі'); await document.fonts.ready;});
+ await p.goto('file://'+path.join(__dirname,data.page||'page.html')); await p.evaluate(async()=>{for(const f of ['800 21px MS','italic 900 21px MS','600 12px MS']) await document.fonts.load(f,'Aaәғқңөұүһі'); await document.fonts.ready;});
  await p.evaluate(d=>window.setup(d),data); await p.waitForTimeout(300);
  if(mode==='events'){ fs.writeFileSync(out,JSON.stringify(await p.evaluate(()=>window.events()))); }
  else if(mode==='frames'){ const ts=arg.split(',').map(Number); let i=0;

diff --git a/.claude/skills/matin-video/mult/cover.js b/.claude/skills/matin-video/mult/cover.js
@@ -3,7 +3,7 @@ const {chromium}=require('playwright');const fs=require('fs');const path=require
 (async()=>{
  const [,,dataF,out,title,pose]=process.argv; const data=JSON.parse(fs.readFileSync(dataF,'utf8'));
  const b=await chromium.launch(); const p=await b.newPage({viewport:{width:360,height:640},deviceScaleFactor:3});
- await p.goto('file://'+path.join(__dirname,'page.html'));
+ await p.goto('file://'+path.join(__dirname,data.page||'page.html'));
  await p.evaluate(async()=>{for(const f of ['800 21px MS','italic 900 21px MS']) await document.fonts.load(f,'Aaәғқңөұүһі');});
  data.scenes[0].pose=pose||'thumb';
  data.env=data.env.map(()=>0.45); await p.evaluate(d=>window.setup(d),data); await p.evaluate(t=>window.draw(t),Math.min(4.9,data.scenes[0].t1-0.2)); await p.evaluate(()=>document.querySelector('#dots').style.display='none');

diff --git a/.claude/skills/matin-video/scripts/mult.py b/.claude/skills/matin-video/scripts/mult.py
@@ -96,7 +96,7 @@ def prep(plan):
                        "words": [{"w": w["w"], "e": w["e"], "p": w.get("p", ""), "t": round(w["t"], 3)} for w in ws]})
     for si, sc in enumerate(scenes):
         sc["t1"] = scenes[si + 1]["t0"] if si + 1 < len(scenes) else dur + 1
-    data = {"fps": FPS, "dur": round(dur, 3), "button": P.get("button", "Подробнее"), "character": P.get("character", "mysyk"), "button_key": P.get("button_key", "подробнее"), "env": [round(float(x), 3) for x in env], "scenes": scenes}
+    data = {"fps": FPS, "dur": round(dur, 3), "button": P.get("button", "Подробнее"), "character": P.get("character", "mysyk"), "page": P.get("page", "page.html"), "button_key": P.get("button_key", "подробнее"), "env": [round(float(x), 3) for x in env], "scenes": scenes}
     json.dump(data, open(os.path.join(wd, "data.json"), "w"), ensure_ascii=False)
     for sc in scenes:
         print(f"{sc['t0']:6.2f}  " + " ".join(f"{w['w']}@{w['t']:.1f}" for w in sc["words"][:6]) + " …")
